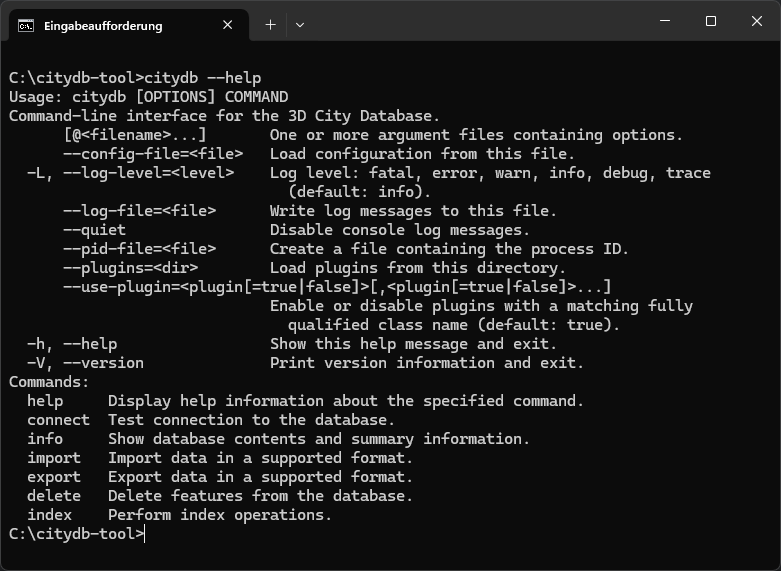
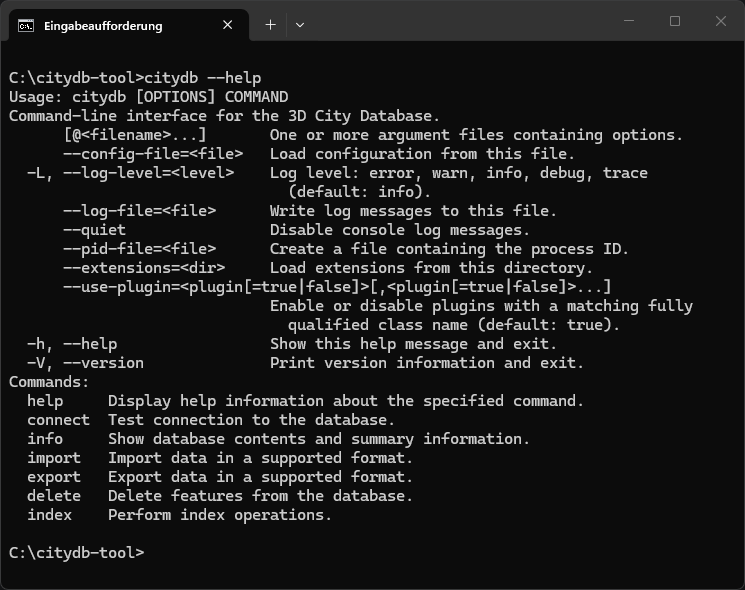
updated to 3DCityDB 5.1.4 and citydb-tool 1.4

diff --git a/docs/citydb-tool/export-config.md b/docs/citydb-tool/export-config.md
@@ -232,6 +232,8 @@ The JSON structure for storing write options is shown below. Format-specific set
     "tempDirectory": "/path/to/temp",
     "encoding": "UTF-8",
     "srsName": "http://www.opengis.net/def/crs/EPSG/0/25832",
+    "skipEmptyTiles": false,
+    "metadataOptions": {...},
     "formatOptions": {
       "CityGML": {...},
       "CityJSON": {...}
@@ -249,6 +251,30 @@ The JSON structure for storing write options is shown below. Format-specific set
 | [`"tempDirectory"`](export.md#controlling-the-export-process)   | Store temporary files in this directory.          |               |
 | [`"encoding"`](export.md#specifying-the-output-file)            | Encoding to use for the output file.              |               |
 | [`"srsName"`](export.md#reprojecting-geometries)                | Name of the CRS to use in the output file.        |               |
+| [`"skipEmptyTiles"`](export.md#handling-empty-tiles)            | Skip tile files containing no exported features.  | `false`       |
+| `"metadataOptions"`                                             | Metadata options for the output files.            |               |
+
+### Metadata options
+
+The `"metadataOptions"` property is a container object for adding metadata to output files.
+Each metadata property is added only if supported by the selected output format. If `"computeExtent"` is enabled, the extent is
+computed from all features exported to the respective output file.
+
+```json
+{
+  "metadataOptions": {
+    "title": "My dataset title",
+    "description": "My dataset description",
+    "computeExtent": true
+  }
+}
+```
+
+| Property          | Description                                                         | Default value |
+|-------------------|---------------------------------------------------------------------|---------------|
+| `"title"`         | Title to add to the output file.                                    |               |
+| `"description"`   | Description to add to the output file.                              |               |
+| `"computeExtent"` | Compute and add the extent of exported features to the output file. | `false`       |
 
 ### CityGML options
 
@@ -264,6 +290,14 @@ The `"CityGML"` property is a container object for CityGML-specific format optio
       "/path/to/myFirstStylesheet.xsl",
       "/path/to/mySecondStylesheet.xsl"
     ],
+    "prefixes": {
+      "http://www.opengis.net/citygml/3.0": "core",
+      "http://www.opengis.net/citygml/building/3.0": "bldg"
+    },
+    "schemaLocations": {
+      "http://www.opengis.net/citygml/3.0": "/path/to/citygml.xsd",
+      "http://www.opengis.net/citygml/building/3.0": "/path/to/building.xsd"
+    },
     "useLod4AsLod3": false,
     "mapLod0RoofEdge": false,
     "mapLod1MultiSurfaces": false
@@ -277,6 +311,8 @@ The `"CityGML"` property is a container object for CityGML-specific format optio
 | [`"prettyPrint"`](export-citygml.md#formatting-the-output)                                | Format and indent output file.                                                                                                                                                                                                                                                                                                                                                                   | `true`         |
 | `addressMode`                                                                             | Specifies how to construct addresses based on the `ADDRESS` table: <ul><li>`columnsOnly`: Use only structured address fields.</li><li>`columnsFirst`: Prefer structured columns; fall back to `content` blob.</li><li>`xalSourceOnly`: Use only the address blob stored in the `content` column.</li><li>`xalSourceFirst`: Prefer the `content` blob; fall back to structured columns.</li></ul> | `columnsFirst` |
 | [`"xslTransforms"`](export-citygml.md#applying-xsl-transformations)                       | An array of XSLT stylesheets to transform the output, referenced by filename and path (absolute or relative). The stylesheets are applied in the specified order.                                                                                                                                                                                                                                |                |
+| `"prefixes"`                                                                              | Map namespace URIs to XML prefixes.                                                                                                                                                                                                                                                                                                                                                              |                |
+| `"schemaLocations"`                                                                       | Map namespace URIs to schema locations.                                                                                                                                                                                                                                                                                                                                                          |                |
 | [`"useLod4AsLod3"`](export-citygml.md#upgrading-citygml-20-and-10)                        | Use LoD4 as LoD3, replacing an existing LoD3.                                                                                                                                                                                                                                                                                                                                                    | `false`        |
 | [`"mapLod0RoofEdge"`](export-citygml.md#upgrading-citygml-20-and-10)                      | Map LoD0 roof edges onto roof surfaces.                                                                                                                                                                                                                                                                                                                                                          | `false`        |
 | [<code>"mapLod1Multi<br/>Surfaces"</code>](export-citygml.md#upgrading-citygml-20-and-10) | Map LoD1 multi-surfaces onto generic thematic surfaces.                                                                                                                                                                                                                                                                                                                                          | `false`        |

diff --git a/docs/citydb-tool/cli.md b/docs/citydb-tool/cli.md
@@ -47,9 +47,9 @@ is an example output.
 
 ```shell
 $ citydb --version
-citydb-tool version 1.0.0
+citydb-tool 1.0.0
 Supported 3DCityDB versions: 5.0.0+
-(C) 2022-2025 virtualcitysystems GmbH
+Copyright (C) 2022-2026 3DCityDB Contributors
 ```
 
 ### Help and CLI documentation
@@ -86,12 +86,11 @@ included.
 
 The available log levels, ordered from highest to lowest severity, are:
 
-- `fatal`: Critical errors causing immediate termination
-- `error`: Non-recoverable errors
+- `error`: Errors indicating that something went wrong
 - `warn`: Warnings about potential issues
 - `info`: General operational messages (default)
-- `debug`: Detailed debugging information
-- `trace`: Most detailed logs for troubleshooting
+- `debug`: Detailed information for debugging
+- `trace`: Most detailed information for troubleshooting
 
 All console log messages are written to `stderr`, regardless of the selected log level. This design ensures that
 structured output (for example, JSON returned by commands such as `info` or `connect`) written to `stdout` remains
@@ -138,13 +137,13 @@ citydb-tool provides a flexible plugin mechanism for adding custom functionality
 commands or extend existing ones. Plugins are typically distributed as a ZIP package containing the plugin's 
 Java Archive (JAR) file and any additional resources.
 
-To install a plugin, unzip it (if necessary) and place the files in the `plugins` subfolder within the citydb-tool
+To install a plugin, unzip it (if necessary) and place the files in the `extensions` subfolder within the citydb-tool
 installation directory. For better organization, it is recommended to create a separate subfolder for each plugin.
 citydb-tool will automatically detect and load the plugins from this location, logging successfully loaded plugins
-separately in the console. To uninstall a plugin, simply delete its folder from the `plugins` subfolder.
+separately in the console. To uninstall a plugin, simply delete its folder from the `extensions` subfolder.
 
-The `--plugins` option allows you to specify a different location for loading plugins. To enable or disable plugins, use
-the `--use-plugin` option followed by the fully qualified Java class name and a value of `true` (enable) or `false`
+The `--extensions` option allows you to specify a different location for loading plugins. To enable or disable plugins,
+use the `--use-plugin` option followed by the fully qualified Java class name and a value of `true` (enable) or `false`
 (disable) (default: `true`). Disabled plugins will not be loaded. Multiple plugins can be specified as a comma-separated
 list as shown below.
 

diff --git a/docs/citydb-tool/includes/global-options.md b/docs/citydb-tool/includes/global-options.md
@@ -4,9 +4,9 @@
 | `-h`, `--help`                                                                                  | Show a help message and exit.                                         |               |
 | `-V`, `--version`                                                                               | Print version information and exit.                                   |               |
 | `--config-file=<file>`                                                                          | Load configuration from this file.                                    |               |
-| `-L`, `--log-level=<level>`                                                                     | Log level: `fatal`, `error`, `warn`, `info`, `debug`, `trace`.        | `info`        |
+| `-L`, `--log-level=<level>`                                                                     | Log level: `error`, `warn`, `info`, `debug`, `trace`.                 | `info`        |
 | `--log-file=<file>`                                                                             | Write log messages to this file.                                      |               |
 | `--quiet`                                                                                       | Disable console log messages.                                         |               |
 | `--pid-file=<file>`                                                                             | Create a file containing the process ID.                              |               |
-| `--plugins=<dir>`                                                                               | Load plugins from this directory.                                     |               |
+| `--extensions=<dir>`                                                                            | Load extensions from this directory.                                  |               |
 | <code>--use-plugin=&lt;plugin[=true&#124;false]><br/>[,&lt;plugin[=true&#124;false]>...]</code> | Enable or disable plugins with a matching fully qualified class name. | `true`        |

diff --git a/docs/first-steps/requirements.md b/docs/first-steps/requirements.md
@@ -21,9 +21,9 @@ We recommend checking data and database [compatibility](../compatibility.md) fir
 !!! info
     We are expanding support to include more database systems, starting with __Oracle Database__. Stay tuned!
 
-Supported PostgreSQL versions include __PostgreSQL 14__ and higher, with __PostGIS 3.1__ and higher. Make sure to check
+Supported PostgreSQL versions include __PostgreSQL 14__ and higher, with __PostGIS 3.2__ and higher. Make sure to check
 the [PostgreSQL versioning policy](https://www.postgresql.org/support/versioning/) to determine which PostgreSQL versions are actively maintained or have
-reached end-of-life. The [PostGIS support matrix](https://trac.osgeo.org/postgis/wiki/UsersWikiPostgreSQLPostGIS) provides details on which PostgreSQL versions are supported
+reached end-of-life. The [PostGIS support matrix](https://postgis.net/development/compatibility/) provides details on which PostgreSQL versions are supported
 by specific PostGIS versions and whether any particular version of PostGIS has reached end-of-life.
 
 The SQL scripts for setting up a 3D City Database schema are designed to be executed by the default command-line client

diff --git a/docs/citydb-tool/export.md b/docs/citydb-tool/export.md
@@ -462,6 +462,12 @@ Some common examples include:
 - `%.2f`: Formats the value as a decimal number with two decimal places.
 - `%4.4s`: Formats the value as a string, but only prints exactly four characters.
 
+#### Handling empty tiles
+
+By default, citydb-tool generates output files for all tiles in the tile grid, including tiles without exported
+features. Use the `--skip-empty-tiles` option to omit empty tiles from the output. When enabled, only files for tiles
+containing exported features are retained, reducing the number of generated files and saving disk space.
+
 #### Tiled export example
 
 The following command exports all roads from the 3DCityDB, organizing them into 2x2 km tiles. The tiling extent is

diff --git a/docs/index.md b/docs/index.md
@@ -17,7 +17,7 @@ tools to import, export, manage, analyse, and visualize virtual 3D city models o
     | | |
     | - | - |
     | 3D City Database: | `5.1` |
-    | citydb-tool: | `1.3` |
+    | citydb-tool: | `1.4` |
 </div>
 
 ## Content overview
